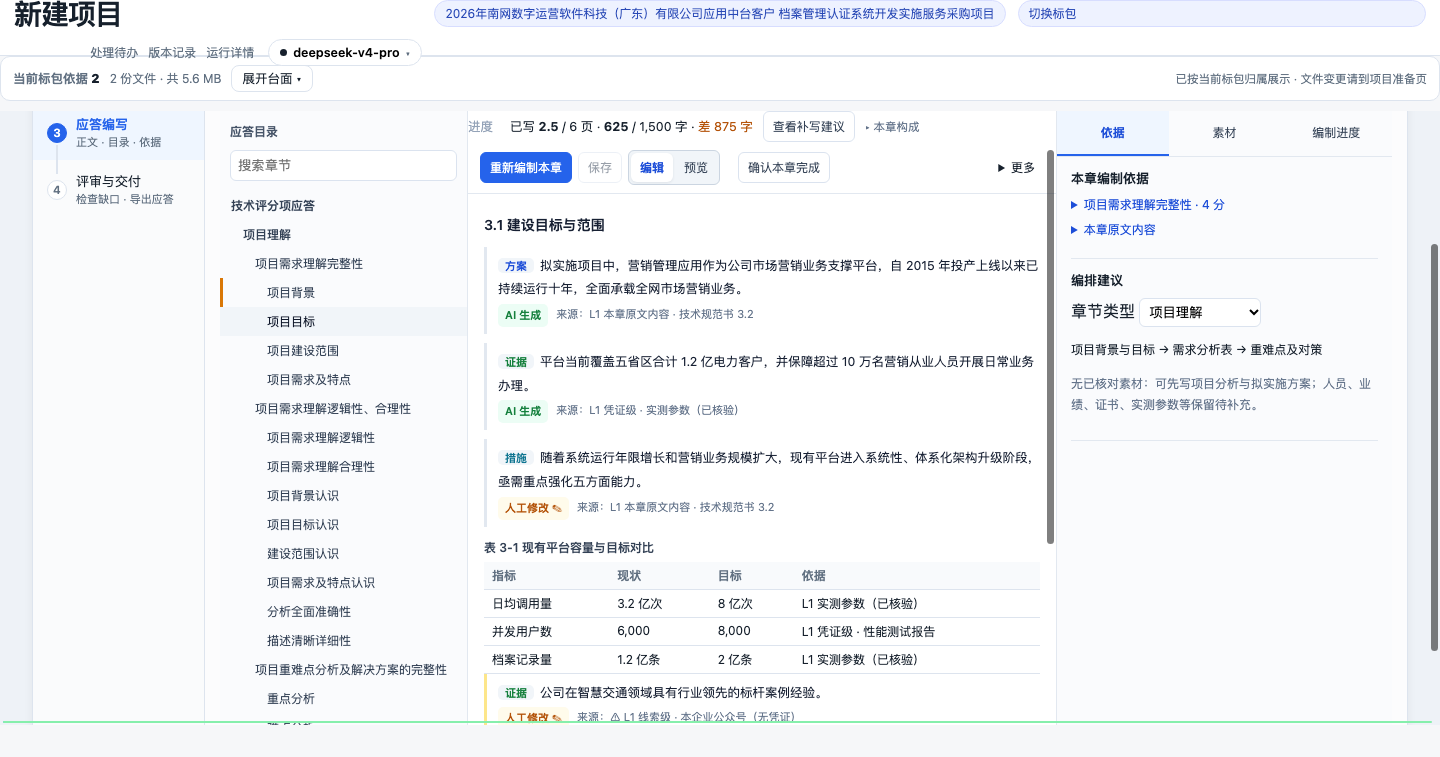
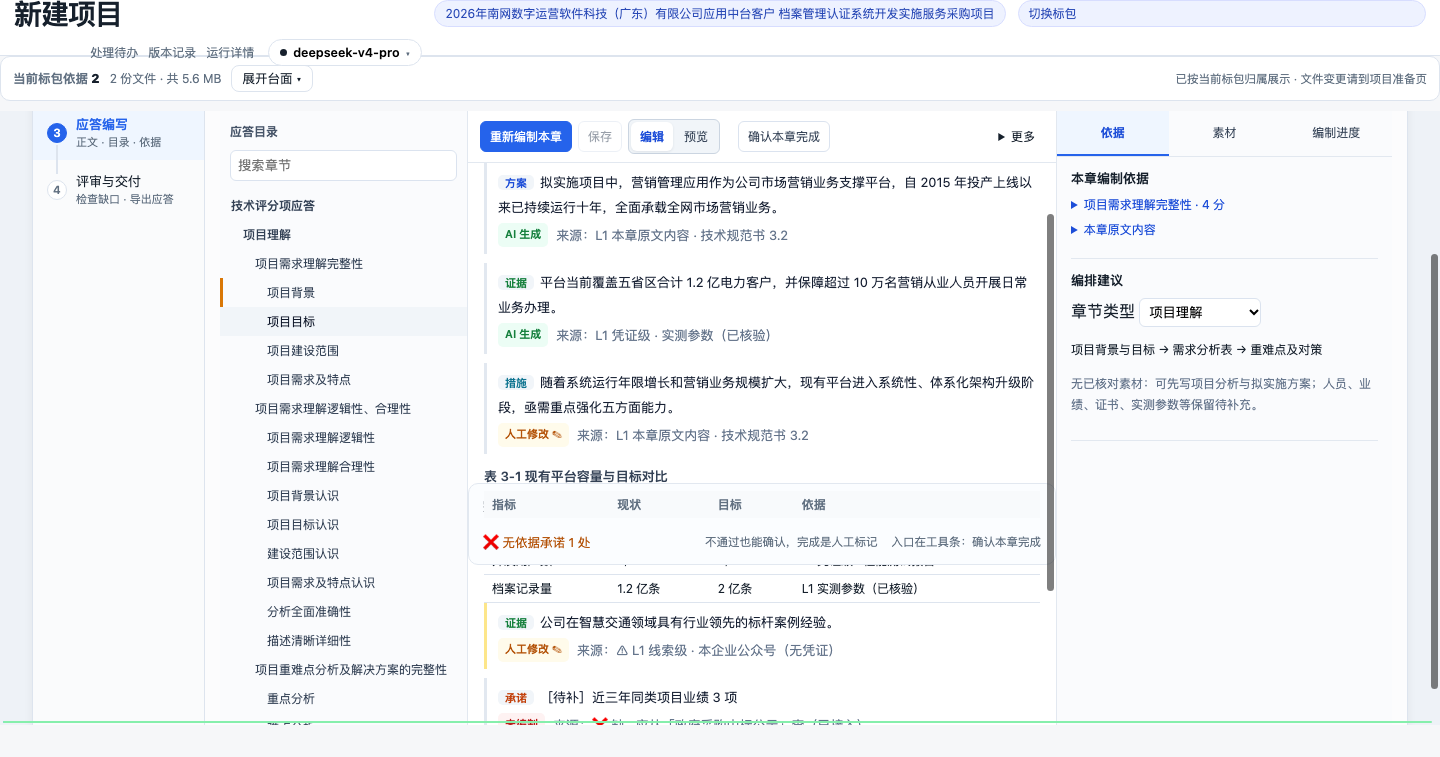
docs(design): 原型按方案继续修改——段数构成常显、收尾栏入正文列、字号对齐
用户要求：修改原型。本轮落地 3 项 + 1 项如实记为待实现。

1 段数构成由折叠改为常显一行（方案 §6.1 P0① 要求"给编辑器一个主语"，需一眼可见）：
  本章 6 个块：AI 已编 2 · 人工改过 2 · 未编制 1 · 表格 1 · 证据 3/5 · 覆盖 2/3 评分点
2 收尾栏（完成本章检查清单）移入正文列 .cs-main（P7：原先挂在三栏网格末尾，会被右栏挤位）
3 块级正文字号对齐产品编辑器实际字号（实测 13px）

未实现（如实记录）：
  P5「章节类型」输入移到正文上方 —— 真实快照里该控件的标签与 select 嵌套层级不固定，
  多次尝试未能可靠定位；已移除死代码，留待真实代码改造时处理，不在原型里猜。

实测：segLine 常显 ✅ · 旧折叠已移除 ✅ · footerInMain=true ✅ · 正文字号 13px ✅ · 无 JS 错误 ✅

diff --git a/docs/design/mockups/prod-prototype.html b/docs/design/mockups/prod-prototype.html
@@ -15674,4 +15674,39 @@ GB/T 35274-2023《数据安全技术 大数据服务安全能力要求》
     f.insertAdjacentHTML('beforeend','<span class="sr-dim">入口在工具条：确认本章完成</span>'); }
 })();
 </script>
+
+<script>
+/* 收尾：段数构成默认可见（方案 P0①）；章节类型输入移到正文上方（P5）；
+   收尾栏固定进正文列（P7）；正文块字号对齐产品编辑器（P6） */
+(function(){
+  var WPP=250;
+  /* A. 段数构成：由折叠改为常显一行（方案要求"给编辑器一个主语"，要一眼可见） */
+  var budget=document.getElementById('chapterBudget');
+  if(budget && !document.getElementById('segLine')){
+    budget.querySelectorAll('details').forEach(function(d){ d.remove(); });
+    var line=document.createElement('div');
+    line.id='segLine';
+    line.style.cssText='display:flex;align-items:center;gap:8px;flex-wrap:wrap;margin-top:4px;font-size:12px;color:#64748b';
+    line.innerHTML='<span>本章 6 个块：</span>'+
+      '<span class="ui-pill is-ok">AI 已编 2</span>'+
+      '<span class="ui-pill is-none">人工改过 2</span>'+
+      '<span class="ui-pill is-none">未编制 1</span>'+
+      '<span class="ui-pill is-none">表格 1</span>'+
+      '<span class="sr-dim">证据 3 / 5 · 覆盖 2 / 3 评分点</span>';
+    budget.parentElement.insertBefore(line, budget.nextSibling);
+  }
+  /* P5（章节类型输入上移）：真实快照里该控件的标签与 select 嵌套不固定，未能可靠定位；
+     原型暂不实现，留给真实代码改造时处理 */
+  /* P7. 收尾栏固定进正文列（不再挂在三栏网格末尾，避免被右栏挤位） */
+  var f=document.getElementById('writeFooter');
+  var main=document.querySelector('.cs-main');
+  if(f && main && f.parentElement!==main) main.appendChild(f);
+  /* P6. 正文块字号对齐产品编辑器实际字号 */
+  var ed=document.querySelector('.cs-editor');
+  if(ed){
+    var fs=getComputedStyle(ed).fontSize||'13px';
+    body && body.querySelectorAll('div').forEach(function(d){ if(d.style.fontSize) d.style.fontSize=fs; });
+  }
+})();
+</script>
 </body></html>
